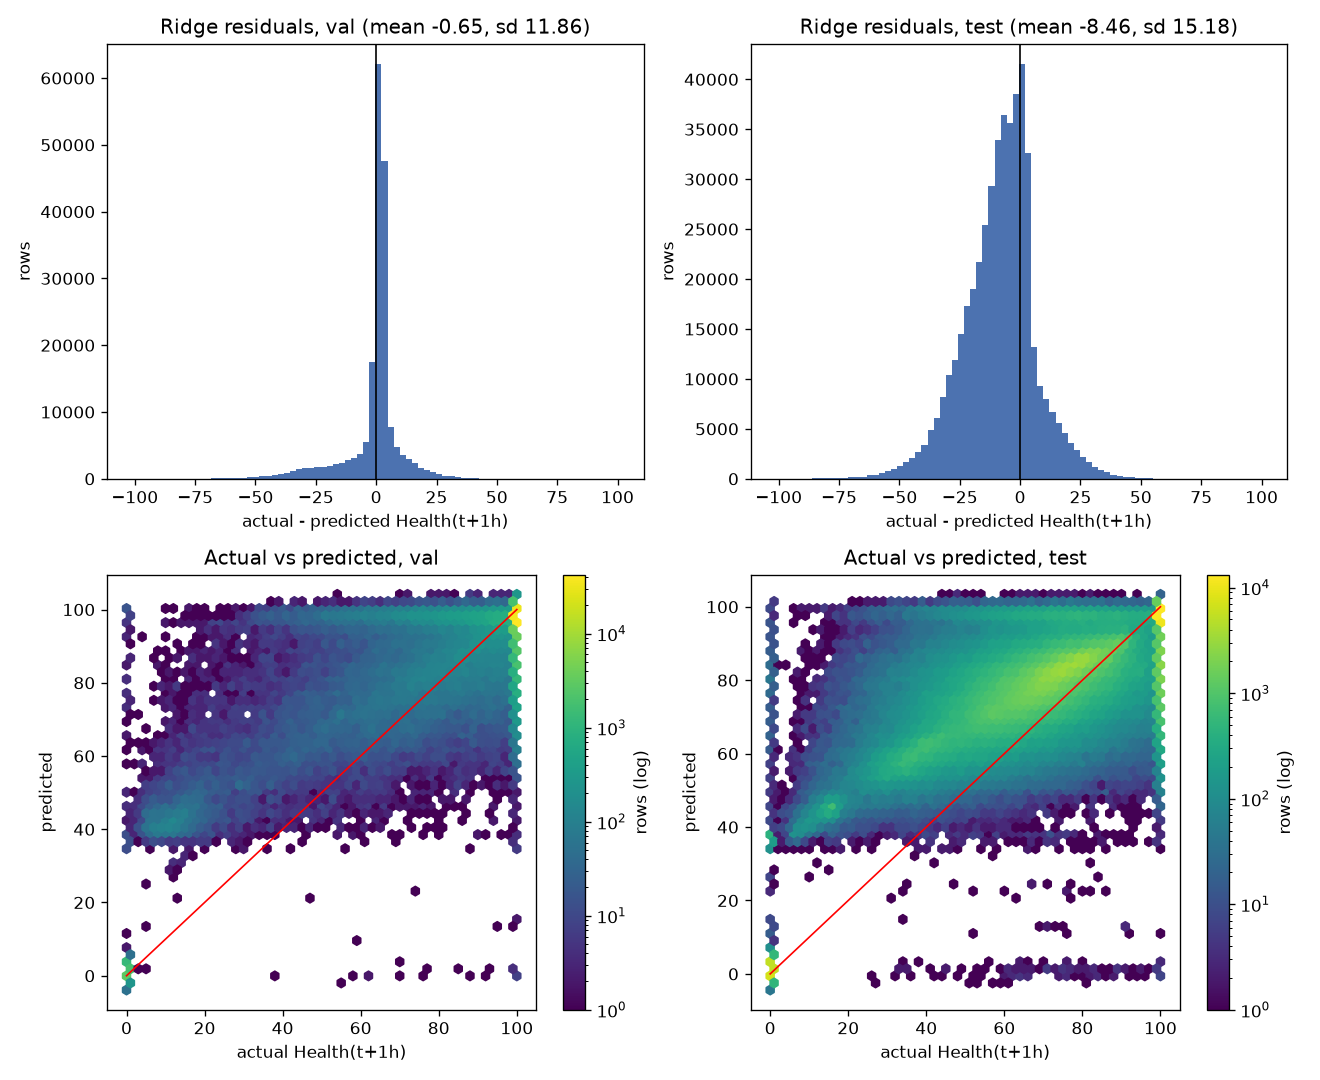
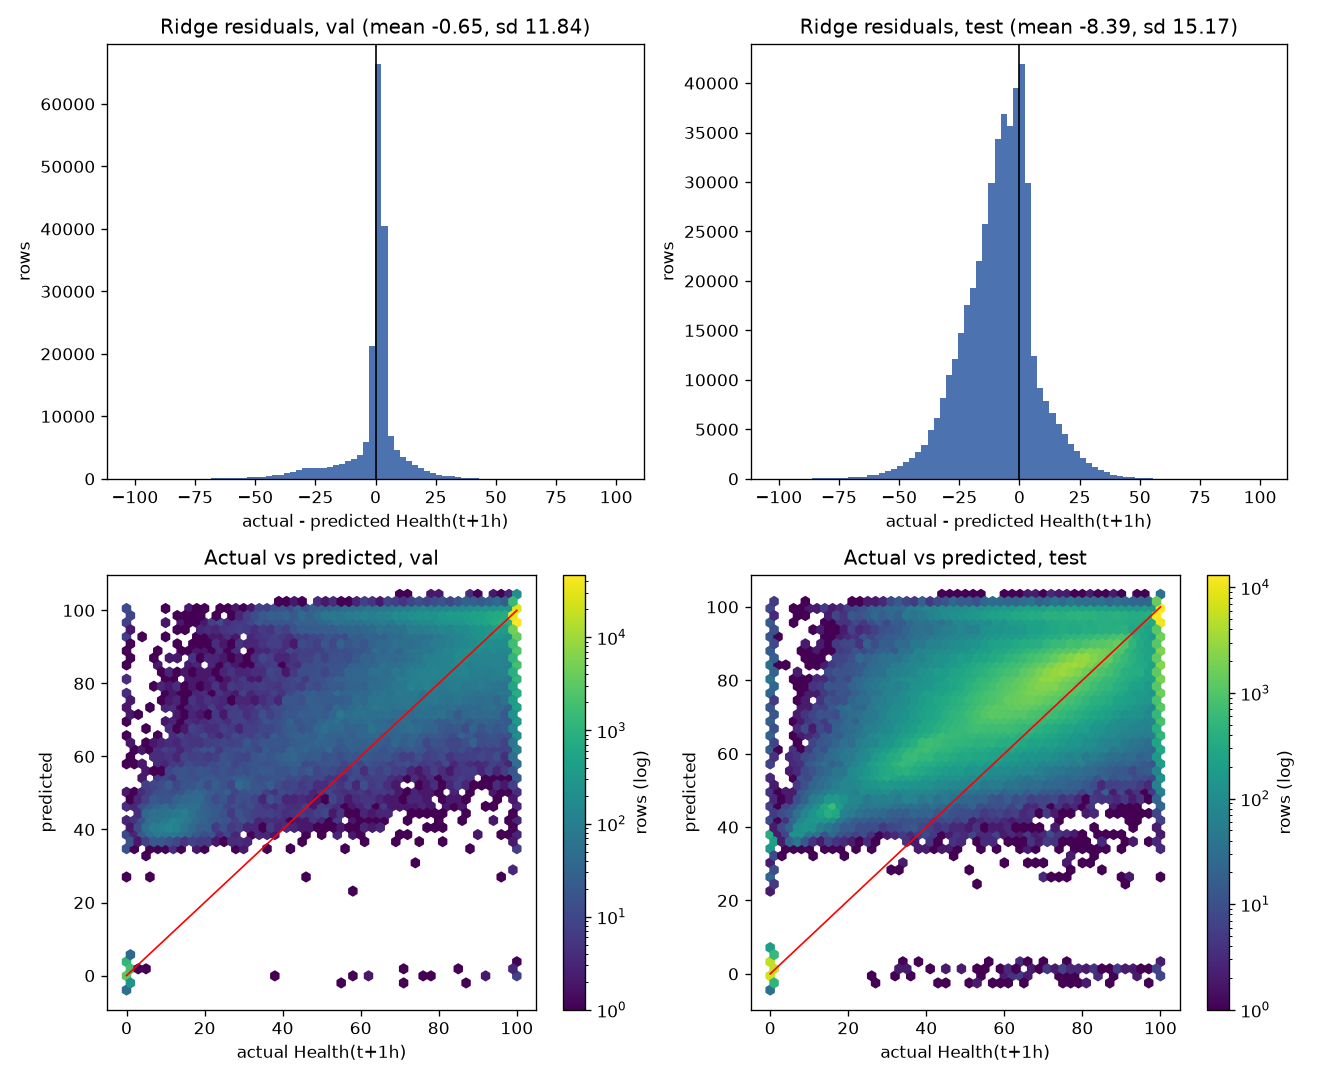
feat(a1): final Track T1 evaluation with outage features
- linear.py: FEATURES gains is_offline and minutes_offline_24h, computed on
  the full grid before rows are dropped (18 features in total)
- linear_evaluation.py: adds the majority baseline, a per-split regression
  table and a --log option that writes one row per A1 model
- results.csv: replaces the 5 pre-tilt-fix A1 rows with 6 final rows
  (persistence, Ridge, majority, Health(t) rule, peer-deviation rule, Logistic)
- refreshed evaluation tables and residual figure

diff --git a/src/models/linear_evaluation.py b/src/models/linear_evaluation.py
@@ -13,7 +13,8 @@ section 11.2 diagnostics:
 
 Seasons are meteorological: DJF winter, MAM spring, JJA summer, SON autumn.
 
-Run from the repo root:  python -m src.models.linear_evaluation
+Run from the repo root:  python -m src.models.linear_evaluation          (no logging)
+                         python -m src.models.linear_evaluation --log    (final A1 rows to results.csv)
 """
 import json
 from itertools import product
@@ -23,9 +24,10 @@ matplotlib.use("Agg")
 import matplotlib.pyplot as plt
 import numpy as np
 import pandas as pd
+from sklearn.dummy import DummyClassifier
 from sklearn.metrics import average_precision_score, confusion_matrix, f1_score
 
-from src.evaluate import evaluate_classification, evaluate_regression
+from src.evaluate import evaluate_classification, evaluate_regression, log_experiment
 from src.features import add_peer_deviation_features
 from src.models.linear import (CLASSES, PROCESSED, ROOT, TABLES, build_dataset,
                                fill_from_train, fit_logistic, fit_ridge, split)
@@ -137,7 +139,33 @@ def plot_residuals(parts, ridge_pred, path):
 
 # ---------------------------------------------------------------- run
 
-def run():
+def regression_table(parts, reg_preds):
+    rows = []
+    for model, pred in reg_preds.items():
+        for name, part in parts.items():
+            m = evaluate_regression(part["health_lead"], pred[name])
+            rows.append({"model": model, "split": name, "n": m["n_samples"],
+                         "mae": m["mae"], "rmse": m["rmse"], "r2": m["r2"]})
+    return pd.DataFrame(rows)
+
+
+def log_results(regression, classifiers, notes):
+    """One final row per A1 model in the shared results/results.csv."""
+    for task, table in [("regression", regression), ("classification", classifiers)]:
+        for model, r in table.groupby("model", sort=False):
+            r = r.set_index("split")
+            if task == "regression":
+                fmt = lambda s: f"RMSE: {r.loc[s, 'rmse']:.2f}"
+            else:
+                fmt = lambda s: f"F1: {r.loc[s, 'macro_f1']:.2f}, Faulty recall: {r.loc[s, 'faulty_recall']:.2f}"
+            log_experiment(student="A1", model_name=model, task=task,
+                           train_score=fmt("train"), val_score=fmt("val"), test_score=fmt("test"),
+                           unseen_score=fmt("test_unseen"),
+                           notes=f"{notes[model]}; test before/after 14 Feb: "
+                                 f"{fmt('test_before_14feb')} / {fmt('test_after_14feb')}")
+
+
+def run(log=False):
     data = add_peer_deviation(build_dataset())
     data["season"] = data["time"].dt.month.map(SEASONS)
     parts = split(data)
@@ -154,13 +182,17 @@ def run():
     print("Tuning peer-deviation rule cut-offs on train ...")
     warn_cut, fault_cut, rule_grid = tune_peer_rule(train)
     print(f"  Warning below {warn_cut}, Faulty below {fault_cut}")
+    majority = DummyClassifier(strategy="most_frequent").fit(X_train, train["status_lead"])
 
     faulty = list(logit.best_estimator_.classes_).index("Faulty")
-    preds = {"Logistic Regression": {}, "Rule: status of Health(t)": {}, "Rule: peer deviation": {}}
+    preds = {"Majority class": {}, "Rule: status of Health(t)": {}, "Rule: peer deviation": {},
+             "Logistic Regression": {}}
     scores = {model: {} for model in preds}
     ridge_pred, persist_pred = {}, {}
     for name, part in parts.items():
         peer = part["peer_dev_campus"].to_numpy(dtype=float)
+        preds["Majority class"][name] = majority.predict(X[name])
+        scores["Majority class"][name] = np.zeros(len(part))
         preds["Logistic Regression"][name] = logit.predict(X[name])
         scores["Logistic Regression"][name] = logit.predict_proba(X[name])[:, faulty]
         preds["Rule: status of Health(t)"][name] = part["status_now"].to_numpy()
@@ -172,6 +204,7 @@ def run():
         persist_pred[name] = part["health_now"].to_numpy()
 
     classifiers = classifier_table(parts, preds, scores)
+    regression = regression_table(parts, {"Persistence": persist_pred, "Ridge": ridge_pred})
     test = parts["test"]
     reg = {"ridge": ridge_pred["test"], "persistence": persist_pred["test"]}
     cls = {"logistic": preds["Logistic Regression"]["test"],
@@ -186,16 +219,32 @@ def run():
     TABLES.mkdir(parents=True, exist_ok=True)
     FIGURES.mkdir(parents=True, exist_ok=True)
     classifiers.to_csv(TABLES / "a1_eval_classifiers.csv", index=False)
+    regression.to_csv(TABLES / "a1_eval_regression.csv", index=False)
     season.to_csv(TABLES / "a1_eval_by_season.csv", index=False)
     station.to_csv(TABLES / "a1_eval_by_inverter.csv", index=False)
     rule.to_csv(TABLES / "a1_peer_rule.csv", index=False)
     plot_residuals(parts, ridge_pred, FIGURES / "a1_ridge_residuals.png")
-    return {"classifiers": classifiers, "season": season, "station": station, "rule": rule}
+    if log:
+        features = "18 features incl. outage"
+        log_results(regression, classifiers, {
+            "Persistence": "Health(t+1h) = Health(t); B1 target, forecasting t+1h",
+            "Ridge": f"alpha={ridge.best_params_['model__alpha']}; 5-fold TimeSeriesSplit; {features}",
+            "Majority class": "always predicts the most frequent training class",
+            "Rule: status of Health(t)": "status at t+1h = status implied by Health(t)",
+            "Rule: peer deviation": f"peer_dev_campus at t, Warning < {warn_cut}, Faulty < {fault_cut} "
+                                    "(tuned on train); offline = Faulty",
+            "Logistic Regression": f"C={logit.best_params_['model__C']}; class_weight=balanced "
+                                   f"(Stage 5 winner); {features}",
+        })
+    return {"classifiers": classifiers, "regression": regression, "season": season,
+            "station": station, "rule": rule}
 
 
 if __name__ == "__main__":
-    out = run()
+    import sys
+    out = run(log="--log" in sys.argv)
     pd.set_option("display.width", 250)
+    print(out["regression"].to_string(index=False), "\n")
     print(out["classifiers"].drop(columns="confusion_matrix").to_string(index=False), "\n")
     print(out["season"].to_string(index=False), "\n")
     print(out["station"].head(8).to_string(index=False))

diff --git a/src/models/linear.py b/src/models/linear.py
@@ -30,7 +30,7 @@ from sklearn.pipeline import Pipeline
 from sklearn.preprocessing import StandardScaler
 
 from src.evaluate import CONFIG, evaluate_classification, evaluate_regression, log_experiment
-from src.features import B2_ALL_FEATURES, build_b2_features
+from src.features import A1_OUTAGE_FEATURES, B2_ALL_FEATURES, add_a1_outage_features, build_b2_features
 from src.targets import assign_operational_status, compute_health_score
 
 ROOT = Path(__file__).resolve().parents[2]
@@ -45,7 +45,7 @@ VAL_END = pd.Timestamp(CONFIG["split"]["val_end"]) + pd.Timedelta("1D")
 CLASSES = ["Healthy", "Warning", "Faulty"]
 
 WEATHER_FEATURES = ["irradiance_wm2", "temp_c", "rh_pct", "wind_speed_ms"]
-FEATURES = ["health_now", "n_valid_5min"] + WEATHER_FEATURES + B2_ALL_FEATURES
+FEATURES = ["health_now", "n_valid_5min"] + WEATHER_FEATURES + B2_ALL_FEATURES + A1_OUTAGE_FEATURES
 
 LOAD_COLUMNS = ["inverter_id", "time", "ac_power_w", "n_valid_5min", "capacity_kwp",
                 "tilt_deg", "azimuth", "altitude_m"] + WEATHER_FEATURES
@@ -59,11 +59,13 @@ def build_dataset(path=PROCESSED / "hkust_15min_v1.parquet"):
     The lead is taken on the full 15-min grid and kept only when the row 4 bins
     ahead is exactly 1 hour later (same day), so "+1 h" never jumps overnight.
     Rows where Health(t) or Health(t+1h) is undefined (irradiance < 100 W/m2,
-    B1's daylight rule) are dropped.
+    B1's daylight rule) are dropped. Outage features are computed on the full
+    grid first, so their 24 h history includes rows dropped here.
     """
     df = pd.read_parquet(path, columns=LOAD_COLUMNS)
     df["inverter_id"] = df["inverter_id"].astype(str)
     df = df.sort_values(["inverter_id", "time"]).reset_index(drop=True)
+    df = add_a1_outage_features(df)
 
     df = compute_health_score(df)           # B1's target, unchanged
     df = df.rename(columns={"health_score": "health_now"})
